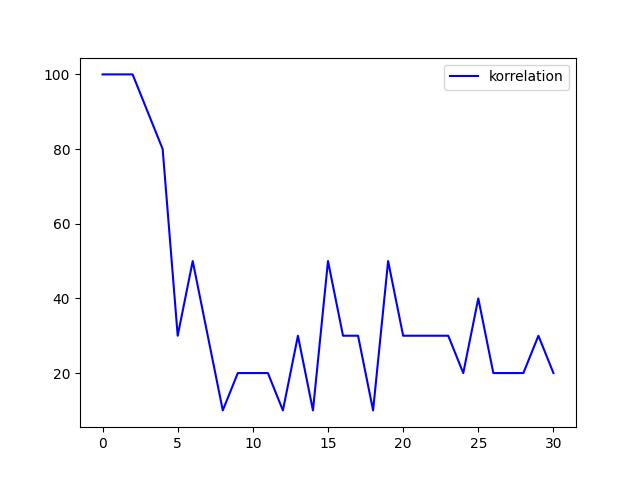
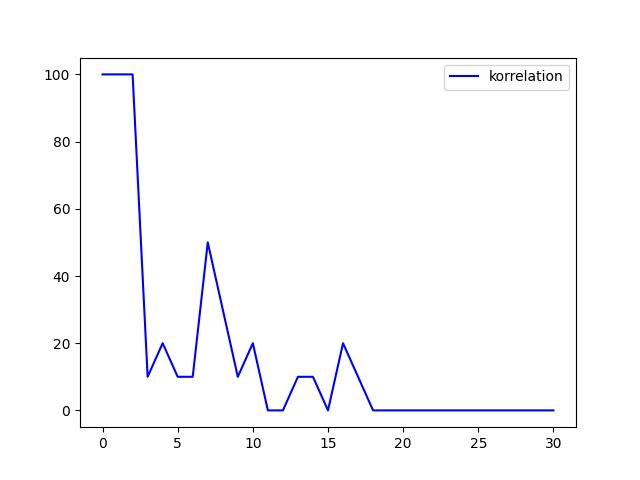
fixed coordinates

diff --git a/experiment.py b/experiment.py
@@ -66,8 +66,9 @@ class Experiment:
         self.method_num = eval(self.method)
         x_indexes, y_indexes = [x for x in range(0, self.MAX_DEGREE+1)], []
         self.DEGREE = 0
-        for i in range(self.MAX_DEGREE+1):
+        for i in range(0, self.MAX_DEGREE+1):
             print(f"ITERATION: {i}")
+            self.DEGREE = -i
             img1_coppy = self.image1.copy()
             img2_coppy = self.image2.copy()
             result_list = []
@@ -78,7 +79,7 @@ class Experiment:
                 print(f"TEMPLATE {j}")
                 img1_coppy_coppy = img1_coppy.copy()
                 img2_rotated_coppy = img2_rotated.copy()
-                img2_rotated_coppy, coords = self.data.random_piece_of_map(img2_rotated_coppy, self.xmin)
+                img2_rotated_coppy, coords = self.data.random_piece_of_map(img2_rotated_coppy, self.xmin, self.DEGREE, img1_coppy_coppy)
                 result, t_l, b_r, minv, maxv = use_cv_match_template(img1_coppy_coppy, img2_rotated_coppy, self.method_num)  # match images
                 result_list.append(result)
                 extrema = self.find_extrema(result, self.EXTREMA_COUNT) # find extrema
@@ -88,7 +89,6 @@ class Experiment:
                 # y_indexes.append(idx)
             true_predicted = true_predicted_count / self.TEMPLATE_COUNT * 100
             y_indexes.append(true_predicted)
-            self.DEGREE += 1
             
             # cv2.imwrite(f'photos/results/result.png', result)
             # plt.imshow(result,cmap = 'gray')
@@ -124,7 +124,7 @@ class Experiment:
         self.shape_j = int(self.width / self.step) +1
 
         x_indexes, metrics_indexes, vectors_indexes = [x for x in range(0, self.MAX_DEGREE+1)], [], []
-        for i in range(self.MAX_DEGREE, self.MAX_DEGREE+1):
+        for i in range(0, self.MAX_DEGREE+1):
             print(f"ITERATION: {i}")
             self.DEGREE = i
             img1_coppy = self.image1.copy()
@@ -138,13 +138,9 @@ class Experiment:
                 img1_coppy_coppy = img1_coppy.copy()
                 img2_rotated_coppy = img2_rotated.copy()
 
-                # img2_rotated_coppy, coords = self.data.random_piece_of_map(img2_rotated_coppy, self.xmin)
-
-                self.photo, self.photo_coords = self.data.random_piece_of_map(img2_rotated_coppy, self.xmin)
+                self.photo, self.photo_coords = self.data.random_piece_of_map(img2_rotated_coppy, self.xmin, self.DEGREE, img1_coppy_coppy)
                 CV_list, true_vectors_list, extremas_metrics, extremas_vectors = self.start_experiment(method, i, j) # match images
 
-                # result_list.append(result)
-                # extrema = self.find_extrema(result, self.EXTREMA_COUNT) # find extrema
 
                 idx = self.search_right_extremum(self.photo_coords, extremas_metrics, self.step)
                 if idx:
@@ -159,8 +155,6 @@ class Experiment:
             
             true_predicted = vectors_true_predicted_count / self.TEMPLATE_COUNT * 100
             vectors_indexes.append(true_predicted)
-
-            self.DEGREE += 1
 
         # print(x_indexes, '\n', y_indexes)
         
@@ -195,10 +189,10 @@ class Experiment:
                 true_vectors = np.append(true_vectors, true_vectors_count)
                 CV_row = np.append(CV_row, cv_metric)
 
-                # self.data.show_current_result(vis1, original_shape, photo_shape, original_coords, photo_coords, image1.copy(), 
-                #                               length_hist, degree_hist, "SIFT algorithm (count metrics)")
-                # self.data.show_current_result(vis2, original_shape, photo_shape, original_coords, photo_coords, image1.copy(), 
-                                            #   length_hist, degree_hist, "SIFT algorithm (check vectors)")
+                # self.data.show_current_result(vis1, self.original_shape, self.photo_shape, original_coords, self.photo_coords, self.image1.copy(), 
+                #                               length_hist, degree_hist, f"{exp_method} algorithm (count metrics)")
+                # self.data.show_current_result(vis2, self.original_shape, self.photo_shape, original_coords, self.photo_coords, self.image1.copy(), 
+                #                               length_hist, degree_hist, f"{exp_method} algorithm (check vectors)")
                 
                 coord_j += self.step
                 jt+=1

diff --git a/imageData.py b/imageData.py
@@ -85,7 +85,7 @@ class ImageData:
         return cropped_image.copy()
 
     
-    def random_piece_of_map(self, img, xmin):
+    def random_piece_of_map(self, img, xmin=0, degree=0, orig=None):
         source_img = img.copy()
         max_width = source_img.shape[1]
         max_hight = source_img.shape[0]
@@ -94,33 +94,46 @@ class ImageData:
         i, ymin, ymax = 0, 0, max_hight
         for x in source_img:  # find ymin and ymax for current xmin
             if x[left_w] and x[left_w+self.MAP_SLICE]:
-                print(x[left_w], x[left_w+self.MAP_SLICE])
+                # print(x[left_w], x[left_w+self.MAP_SLICE])
                 ymax = i
                 if not ymin:
                     ymin = i
             i+=1
         i=0
 
-        print(f"FUNCTION: random_piece_of_map {xmin} {ymin} {ymax}")
-        plt.imshow(source_img,cmap = 'gray')
-        plt.plot(left_w, ymin, "rx")
-        plt.plot(left_w, ymax, "gx")
-        plt.show()
-
+        # print(f"FUNCTION: random_piece_of_map {xmin} {ymin} {ymax}")
+        # plt.imshow(source_img,cmap = 'gray')
+        # plt.plot(left_w, ymin, "rx")
+        # plt.plot(left_w, ymax, "gx")
+        # plt.show()
 
         left_h = random.randint(ymin, ymax - self.MAP_SLICE) 
+
         self.coords = (left_w, left_h)
+
         bottom_right = (self.coords[0] + self.MAP_SLICE, self.coords[1] + self.MAP_SLICE)
         # print(top_left, bottom_right)
         image = cv2.rectangle(source_img , self.coords, bottom_right, 255, 2)
         self.cropped_image = source_img[left_h:left_h+self.MAP_SLICE, left_w:left_w+self.MAP_SLICE]
 
-        print(self.coords, bottom_right)
-        plt.imshow(image,cmap = 'gray')
-        plt.show()
+        # print(self.coords)
+        C0 = round((-1)*orig.shape[0] * sin(radians(degree)))  
+        C1 = 0
+        new_x = round(left_w * cos(radians(degree)) + left_h * sin(radians(degree)) + C0)   # get new coords (WRONG)
+        new_y = round(left_w * (-sin(radians(degree))) + left_h * cos(radians(degree)) + C1)
+        self.coords = (new_x, new_y)
+        # print(self.coords)
+        # print(C0, C1)
 
-        plt.imshow(self.cropped_image,cmap = 'gray')
-        plt.show()
+        # fig, ax = plt.subplots(nrows=1, ncols=2, figsize=(11, 8))
+        # ax[1].imshow(orig,cmap = 'gray')
+        # ax[1].plot(new_x, new_y, "rx")
+        # ax[0].imshow(image,cmap = 'gray')
+        # plt.show()
+
+
+        # plt.imshow(self.cropped_image,cmap = 'gray')
+        # plt.show()
 
         return self.cropped_image, self.coords
 

diff --git a/main.py b/main.py
@@ -28,6 +28,6 @@ if __name__ == "__main__":
     TEMPLATE_COUNT = 10
 
     experiment = Experiment(IMAGE_1_PATH, IMAGE_2_PATH, TEMPLATE_COUNT, MAP_SLICE, STEP, DIFFERENCE, EXTREMA_COUNT, MAX_DEGREE)
-    # experiment.experiment_KORR()
+    experiment.experiment_KORR()
     experiment.experiment_SIFT("A-SIFT")
-    # experiment.experiment_SIFT("SIFT")
+    experiment.experiment_SIFT("SIFT")
